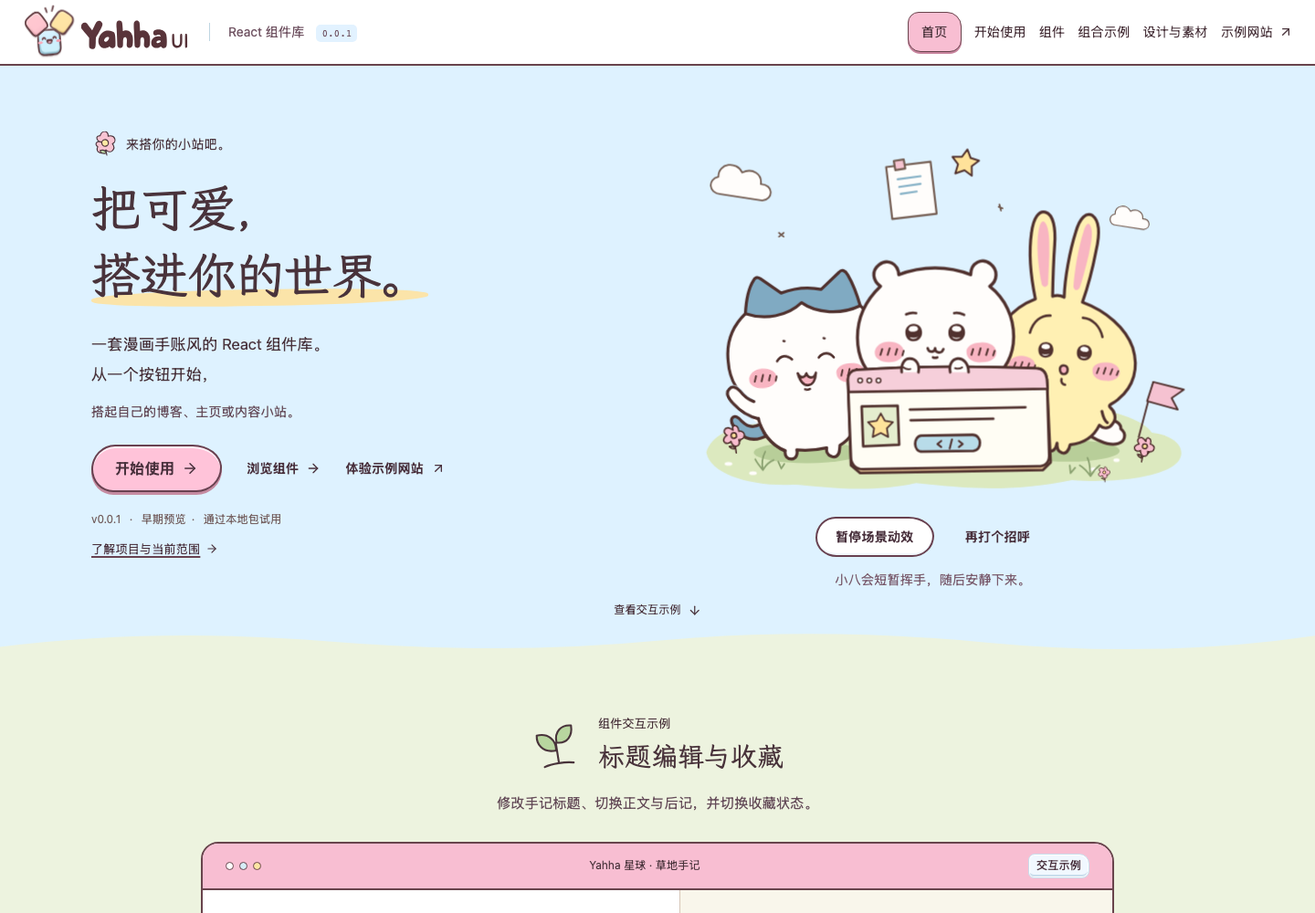
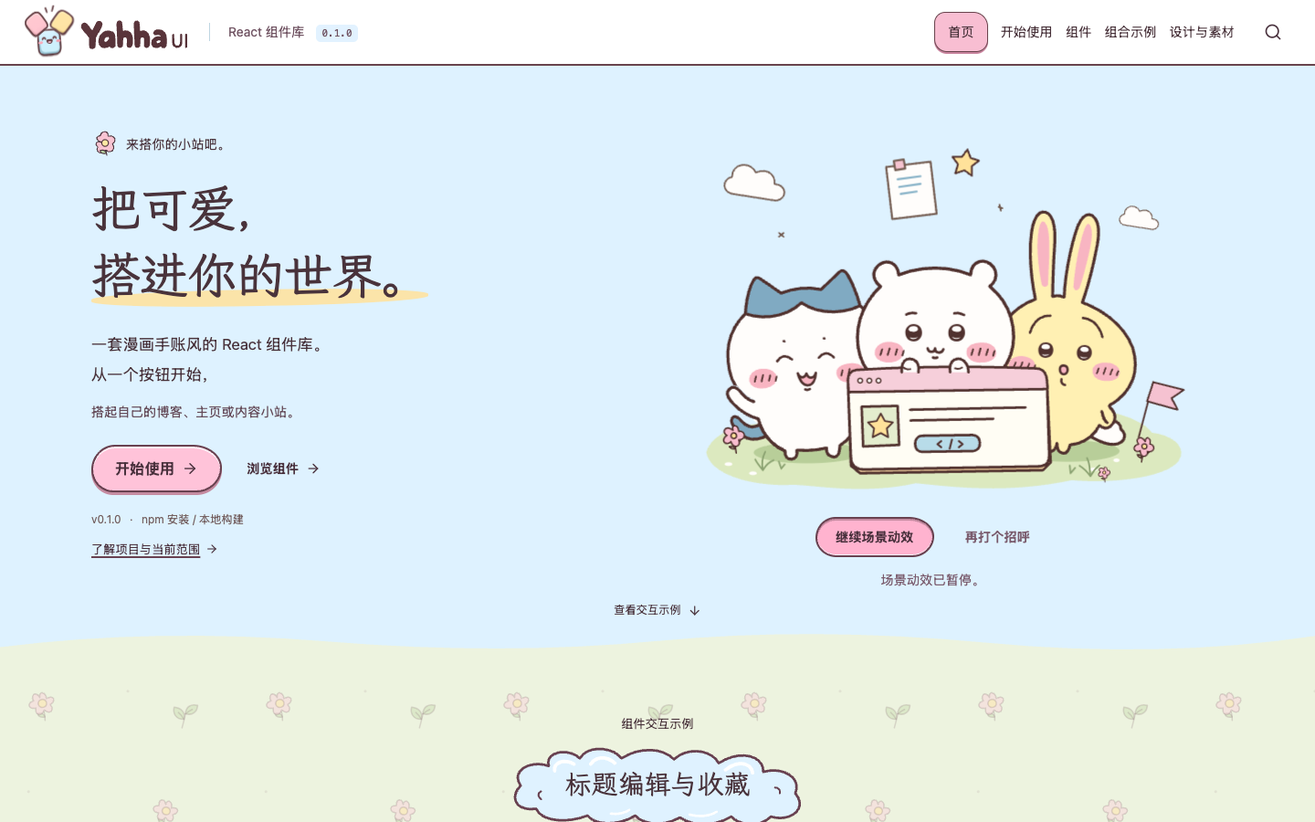
docs(project): 更新接入说明与站点预览资源

diff --git a/README.md b/README.md
@@ -1,54 +1,56 @@
-# Yahha UI
+<a id="yahha-ui"></a>
 
-**把可爱，搭进你的世界。**
+<p align="center">
+  <a href="https://yahhaui.com/">
+    <picture>
+      <source media="(prefers-color-scheme: dark)" srcset="https://raw.githubusercontent.com/didilili/yahha-ui/main/playground/src/assets/brand/yahha-ui-logo-on-dark.svg">
+      <img src="https://raw.githubusercontent.com/didilili/yahha-ui/main/playground/src/assets/brand/yahha-ui-logo.svg" alt="Yahha UI" width="320">
+    </picture>
+  </a>
+</p>
 
-Yahha UI 是一套漫画手账风 React 组件库，面向博客、个人主页与内容网站。
+<h1 align="center">Yahha UI</h1>
 
-提供可交互的组件示例、API 参考与完整页面组合，支持复制示例接入 React 项目。
+<p align="center"><strong>把可爱，搭进你的世界。</strong></p>
 
-[访问官网](https://yahhaui.com/) · [开始使用](#安装与接入) · [组件文档](https://yahhaui.com/#/components) · [设计语言](https://github.com/didilili/yahha-ui/blob/main/docs/design-language.md) · [问题反馈](https://github.com/didilili/yahha-ui/issues) · [变更记录](https://github.com/didilili/yahha-ui/blob/main/CHANGELOG.md)
+<p align="center">一套漫画手账风 React 组件库，面向博客、个人主页与内容网站。</p>
 
-React / React DOM `^19.3.1` · 31 个 UI 组件与 ThemeProvider · [npm 安装](https://www.npmjs.com/package/yahha-ui) / 本地构建
+<p align="center">
+  <a href="https://www.npmjs.com/package/yahha-ui"><img src="https://badgen.net/npm/v/yahha-ui" alt="npm 最新版本"></a>
+  <a href="https://github.com/didilili/yahha-ui/actions/workflows/ci.yml"><img src="https://github.com/didilili/yahha-ui/actions/workflows/ci.yml/badge.svg" alt="CI 状态"></a>
+  <a href="https://github.com/didilili/yahha-ui/blob/main/LICENSE"><img src="https://badgen.net/github/license/didilili/yahha-ui" alt="自有内容许可：MIT"></a>
+</p>
 
-## 把可爱，搭进你的世界
+<p align="center">
+  <a href="https://yahhaui.com/">访问官网</a> ·
+  <a href="#安装与接入">开始使用</a> ·
+  <a href="https://yahhaui.com/#/components">浏览组件</a> ·
+  <a href="https://github.com/didilili/yahha-ui/blob/main/CHANGELOG.md">变更记录</a>
+</p>
 
-我们想一起做，全宇宙最可爱的 UI 组件库。**Yahha 星球**是首页与示例故事的舞台，基础组件也可以独立使用，不依赖角色图案。
+[![Yahha UI 布局与表单组件的实际预览](https://raw.githubusercontent.com/didilili/yahha-ui/main/docs/images/yahha-components.png)](https://yahhaui.com/#/components)
 
-- **为内容网站准备**：阅读、分类、搜索、收藏与轻量表单可以组合成完整小站。文档提供阅读、归档与文章编辑等可复制的组合示例。
-- **每次操作，都好好回应**：组件继承使用方字体，提供清晰的焦点、选中与加载状态；键盘、表单和减少动效的用法见各组件文档。
-- **按需加入小场景**：静态 SVG、状态动效和可暂停的欢迎场景独立提供。基础组件不依赖角色图片，组件安装包不包含网站、字体或场景素材。
+<a id="把可爱搭进你的世界"></a>
+
+## 从一个按钮开始
+
+- **漫画手账风**：暖墨轮廓、柔和配色与纸感细节，提供 32 个 UI 组件与 ThemeProvider。
+- **三套主题配色**：粉色、浅蓝与浅黄预设，支持通过公开属性和语义颜色定制；组件继承你的项目字体。
+- **可复制的内容页面**：阅读与收藏、归档与搜索、文章编辑等组合，提供交互预览、源码与 API。示例使用演示数据，实际数据与保存逻辑由你的项目接入。
+
+**Yahha 星球**是首页与示例故事的舞台，基础组件可以独立使用。组件包不包含文档站的角色图片、字体或场景素材。[看看首页场景](docs/images/yahha-home.png) · [了解设计语言](docs/design-language.md)
 
 <a id="构建与本地安装"></a>
 
 ## 安装与接入
 
-已有 React 项目时，安装组件包，再导入样式和主题。没有项目可直接[导出最小项目](#导出最小项目)。
-
-当前要求 React / React DOM `^19.3.1`、Node.js ≥22.22.3，以及支持 CSS 导入的 React 构建工具。
-
-**1. 安装组件包。** 在自己的 React 项目中安装最新已发布版本：
+在已有 React 项目中安装：
 
 ```sh
 npm install yahha-ui
 ```
 
-文档随仓库源码更新，使用前请确认安装版本支持所需 API。如需使用尚未发布的改动，可获取源码并生成本地安装包：
-
-```sh
-git clone https://github.com/didilili/yahha-ui.git
-cd yahha-ui
-npm ci
-npm run build:lib
-npm pack
-```
-
-使用本地安装包时，切换到自己的 React 项目，将下方路径替换为 `npm pack` 输出的实际文件路径：
-
-```sh
-npm install /absolute/path/to/yahha-ui.tgz
-```
-
-**2. 在自己的项目中保存 `App.tsx`**，由现有应用入口渲染：
+在 `App.tsx` 中导入样式并设置主题，由现有应用入口渲染：
 
 ```tsx
 import { useState } from 'react';
@@ -68,89 +70,71 @@ export default function App() {
 }
 ```
 
-启动应用后，点击或按 Space 即可切换按钮的收藏状态。
+启动应用后，点击或按 Space 即可切换收藏状态。样式在应用入口导入一次；`ThemeProvider` 的 `theme` 必填，可选 `pink`、`blue`、`yellow`。[完整入门指南](https://yahhaui.com/#/guides/getting-started) · [主题配置](docs/components/theme.md)
 
-样式在应用入口导入一次；`ThemeProvider` 的 `theme` 必填，可选 `pink`、`blue`、`yellow`。更多用法见[组件文档](docs/README.md)与[主题配置](docs/components/theme.md)。
+<a id="当前能力与边界"></a>
 
-## 导出最小项目
+### 环境与版本
 
-没有现成项目时，在已获取源码并安装依赖的组件库目录中运行：
+- React / React DOM `^19.3.1`、Node.js ≥22.22.3，以及支持 CSS 导入的 React 构建工具。
+- 组件以 ESM、类型声明和独立 CSS 入口分发，React / React DOM 由使用方提供。
+- 当前验证范围为 React 19 浏览器应用；React 18、SSR 和其他构建工具兼容性尚未验证。含素材示例在 Vite 8 / TypeScript 7 下验证。
+- 文档随仓库源码更新，使用前请核对安装版本与[变更记录](CHANGELOG.md)。如需尚未发布的改动，可[从源码构建与安装](CONTRIBUTING.md#从源码构建与安装)。
+
+<a id="浏览组件"></a>
+
+## 浏览组件与示例
+
+从 [Button](docs/components/button.md)、[Input](docs/components/input.md)、[Surface](docs/components/surface.md) 开始，或打开[组件总览](https://yahhaui.com/#/components)，按通用、排版、布局、表单、内容展示、导航、浮层和反馈查找组件。
+
+- [组件文档](docs/README.md)：用途、可运行示例、API、键盘操作与支持范围。
+- [Form 表单](docs/components/form.md)：集中管理字段值、校验、错误、提交和重置。
+- [原生表单接入](docs/guides/forms.md)：原生取值、校验与焦点、重置及七类控件的接入差异。
+- [主题与定制](https://yahhaui.com/#/guides/styling)：配色、布局、插槽与公开样式入口。
+- [组合示例](https://yahhaui.com/#/guides/recipes)：阅读、归档、编辑与状态反馈。展开示例的“完整接入”可复制代码；含素材时按清单保留相对路径。
+
+### 导出最小项目
+
+没有现成 React 项目时，先[获取源码并安装依赖](CONTRIBUTING.md#从源码构建与安装)，再在组件库目录中运行：
 
 ```sh
 npm run create:starter
 ```
 
-项目生成在组件库旁的 `yahha-ui-starter/`。进入终端输出的项目目录，安装依赖并启动：
+默认在组件库旁生成 `yahha-ui-starter/`，内含本地组件包。进入终端输出的目录后运行 `npm install`、`npm run dev`。离线文档、ZIP 与指定输出位置等选项见[导出说明](CONTRIBUTING.md#导出最小接入项目)。
 
-```sh
-npm install
-npm run dev
-```
-
-默认只生成包含本地组件包的项目目录。离线文档、ZIP 和指定输出位置等选项见[导出说明](CONTRIBUTING.md#导出最小接入项目)。生成项目的 README 提供后续运行与部署方法。
-
-## 浏览组件
-
-组件总览按通用、排版、布局、表单、内容展示、导航、浮层和反馈分类；主题配置单列。进入组件文档后，可操作示例、复制代码并查阅 API。
-
-[在线体验组件与 API](https://yahhaui.com/#/components) · [查阅仓库文档](docs/README.md) · [查看设计规则和尺寸规范](docs/design-language.md)
-
-## 让 AI 使用 Yahha UI
+### 让 AI 使用 Yahha UI
 
 可以把下面的说明连同页面需求发送给 AI 编程工具：
 
 ```text
 请用 Yahha UI 为我的 React 项目实现【页面需求】。
-先阅读 https://github.com/didilili/yahha-ui/blob/main/README.md，按当前安装方式接入组件包。
-组件 API 与示例从 https://github.com/didilili/yahha-ui/blob/main/docs/README.md 查阅。
+先确认项目安装的 yahha-ui 版本，再核对该版本支持的 API。
+安装与接入：https://github.com/didilili/yahha-ui/blob/main/README.md
+组件 API 与示例：https://github.com/didilili/yahha-ui/blob/main/docs/README.md
+main 分支文档可能包含尚未发布的改动，不要直接用于旧版本。
 在应用入口导入 yahha-ui/style.css，并使用 ThemeProvider theme="pink" 包裹组件区域。
 使用库已有组件和公开 API 实现页面，布局、内容和业务状态放在我的项目中。
 ```
 
-## 问题反馈
+<a id="问题反馈"></a>
+<a id="参与开发"></a>
+<a id="本地开发"></a>
+<a id="构建与静态部署"></a>
+<a id="仓库目录"></a>
 
-遇到安装、样式或交互问题，可[提交 GitHub Issue](https://github.com/didilili/yahha-ui/issues/new?template=bug_report.yml)，附上组件版本、React 与构建工具、重现步骤及预期和实际结果。
+## 反馈与贡献
 
-## 本地开发
+遇到安装、样式或交互问题，可[提交 GitHub Issue](https://github.com/didilili/yahha-ui/issues/new?template=bug_report.yml)，附上组件版本、React 与构建工具、重现步骤及预期和实际结果。也欢迎通过 Issue 提出组件需求或文档建议。
 
-在本仓库完成 `npm ci` 后，运行文档站：
+我们想一起做，全宇宙最可爱的 UI 组件库。参与开发请阅读[协作说明](CONTRIBUTING.md)，其中包含源码安装、运行文档站、目录结构与验证方式。
 
-```sh
-npm run dev
-```
+[本地开发](CONTRIBUTING.md#本地开发) · [构建与部署文档站](CONTRIBUTING.md#文档站构建与部署) · [版本与发布](docs/releasing.md)
 
-打开终端输出的文档站地址，可浏览组件、入门指南和组合示例。
+<a id="素材与范围"></a>
 
-## 构建与静态部署
+## 许可证与素材
 
-```sh
-npm run build:demo
-```
+项目自有内容采用 [MIT 许可证](LICENSE)。部分展示素材为 Chiikawa 非官方同人创作，MIT 不包含第三方角色形象、名称或商标的权利，详见[第三方说明](THIRD_PARTY_NOTICES.md)。
 
-文档站输出至 `demo-dist/`。构建、本地预览与 GitHub Pages 配置见[部署说明](docs/deployment.md)。
-
-## 当前能力与边界
-
-- 组件以 ESM、类型声明和独立 CSS 入口分发，React / React DOM 由使用方提供。组件安装包不含网站、字体或独立场景素材。
-- 当前验证范围是 React 19 浏览器应用。React 18、SSR 和其他构建工具兼容性尚未验证。
-- 具体组件能力、状态管理与键盘操作以[组件文档](docs/README.md)为准。含素材示例在 Vite 8 / TypeScript 7 下验证，复制方式见文档站“完整接入”。
-
-## 素材与范围
-
-项目自有内容采用 [MIT 许可证](LICENSE)，第三方内容见[第三方说明](THIRD_PARTY_NOTICES.md)。
-
-[素材与分发范围](docs/assets-and-distribution.md)汇总实际目录、原始记录、派生关系与分发位置。[图标与插画](playground/src/examples/scenes/artwork/little-days/README.md)说明静态、动效及欢迎控制器的使用区别。
-
-## 仓库目录
-
-```text
-src/             组件、公开类型与主题
-playground/      文档站、交互示例及展示素材
-docs/            使用与维护说明、生成的组件 Markdown
-scripts/         构建、资源同步、验收与项目导出
-tests/           工程脚本、浏览器和真实安装包验收
-```
-
-## 参与开发
-
-源码目录、文档维护、测试和 Git hooks 见[协作说明](CONTRIBUTING.md)、[版本与发布](docs/releasing.md)；[AGENTS.md](AGENTS.md)记录仓库协作约定。
+[素材与分发范围](docs/assets-and-distribution.md)记录组件、字体与展示素材的来源和分发位置；[图标与插画](playground/src/examples/scenes/artwork/little-days/README.md)说明独立场景素材的使用方式。

diff --git a/CONTRIBUTING.md b/CONTRIBUTING.md
@@ -1,19 +1,61 @@
 # 协作说明
 
-开始修改前阅读 [AGENTS.md](AGENTS.md)。不要自动暂存、提交、推送或发布；已有暂存内容和其他工作区改动需要原样保留。小改动采用针对性验证，流程与影响范围匹配。
+欢迎一起改进 Yahha UI 的组件、文档与示例。发现问题或有建议，可以先[提交 Issue](https://github.com/didilili/yahha-ui/issues)；准备修改代码，可从下面的[本地开发](#本地开发)开始。组件使用方法见[组件文档](docs/README.md)。
+
+## 协作约定
+
+开始修改前阅读 [AGENTS.md](AGENTS.md)，了解目录、API、验证与 Git 约定。保留已有暂存内容和无关改动；使用自动化工具协作时，只有获得明确授权后才能暂存、提交、推送或发布。小改动采用针对性验证，流程与影响范围匹配。
+
+## 从源码构建与安装
+
+需要使用尚未发布的改动或验证本地安装包时，先获取源码。使用 Node.js 22.22.3、npm 10.9.8 与仓库的 `package-lock.json`：
+
+```sh
+git clone https://github.com/didilili/yahha-ui.git
+cd yahha-ui
+npm ci
+```
+
+在组件库仓库根目录生成本地安装包：
+
+```sh
+npm pack
+```
+
+`npm pack` 会通过 `prepack` 自动执行 `npm run build:lib`，构建组件代码、类型声明与样式，再生成 `yahha-ui-<version>.tgz`；实际文件名以终端输出为准。只需构建库产物时，可单独运行 `npm run build:lib`。
+
+切换到自己的 React 项目，将下面的路径替换为刚生成的安装包绝对路径：
+
+```sh
+npm install /absolute/path/to/yahha-ui.tgz
+```
+
+安装后按 README 的[安装与接入](README.md#安装与接入)导入组件、样式与主题。
 
 ## 本地开发
 
-使用 Node.js 22.22.3、npm 10.9.8 与仓库的 `package-lock.json`：
+按上文获取源码并完成 `npm ci` 后，在组件库仓库根目录启动文档站：
 
 ```sh
-npm ci
 npm run dev
 ```
 
-组件文档见 [docs/README.md](docs/README.md)。仓库保持 npm 单包，React 与 React DOM 由使用方提供，当前 peer 范围均为 `^19.3.1`。展示与交互示例放在 `playground/`，不新增 Storybook 依赖。
+打开终端输出的文档站地址，可浏览组件、使用指南与交互示例。仓库保持 npm 单包，React 与 React DOM 由使用方提供，当前 peer 范围均为 `^19.3.1`。文档站与示例放在 `playground/`，不新增 Storybook 依赖。
 
 macOS 可在安装依赖后双击根目录 `启动组件小屋.command`，它会复用已启动的本地文档站或执行 `npm run dev`；这是可选开发入口，其他平台直接使用 npm 命令。
+
+## 文档站构建与部署
+
+在组件库仓库根目录构建并预览文档站：
+
+```sh
+npm run build:demo
+npm run preview
+```
+
+文档站输出至 `demo-dist/`，包含首页、指南、组件示例与 API。将该目录的内容用于静态托管；GitHub Pages、子目录部署及字体声明的保留方式见[部署说明](docs/deployment.md)。
+
+组件库仓库的 `dist/` 用于组件安装包。通过 `create:starter` 导出的使用方项目，按项目自带的 README 构建和部署自己的 `dist/`。
 
 ## 目录与边界
 
@@ -36,23 +78,11 @@ macOS 可在安装依赖后双击根目录 `启动组件小屋.command`，它会
 - `docs/images/`：从实际页面截取的仓库展示图，拍摄路由和视口见目录内 README，不进入安装包。
 - `scripts/`：打包与验收脚本；`starter-template/` 为最小接入项目模板，不是 workspace，生成后的项目独立安装本地 `.tgz`。
 
-Button、IconButton、TextField、Select、Textarea、Checkbox、RadioGroup、Switch 和 SegmentedControl 可单独运行三引擎验收：首次执行 `npx playwright install chromium firefox webkit`，然后执行 `npm run build:demo && npm run test:controls`。它复用构建后的官网，在 Chromium、Firefox 与 WebKit 检查桌面和 320px 下的原生表单、错误恢复、加载几何、图标、键盘选择及多行编辑。Textarea 覆盖换行、长文本、200 字原生输入上限、错误关联与恢复、只读、父 fieldset 禁用、FormData 和重置。WebKit 引擎结果不等同于所有 Safari／iOS 真机环境均已验证。浏览器下载在本机 Playwright 缓存中，不增加组件运行时依赖。
+Button、IconButton、Input、Select、Textarea、Checkbox、RadioGroup、Switch 和 SegmentedControl 可单独运行三引擎验收：首次执行 `npx playwright install chromium firefox webkit`，然后执行 `npm run build:demo && npm run test:controls`。它复用构建后的官网，在 Chromium、Firefox 与 WebKit 检查桌面和 320px 下的原生表单、错误恢复、加载几何、图标、键盘选择及多行编辑。Textarea 覆盖换行、长文本、200 字原生输入上限、错误关联与恢复、只读、父 fieldset 禁用、FormData 和重置。WebKit 引擎结果不等同于所有 Safari／iOS 真机环境均已验证。浏览器下载在本机 Playwright 缓存中，不增加组件运行时依赖。
 
-库内相对模块路径使用 `.js` 扩展名，使构建后的多文件声明可被 Bundler 与 NodeNext 解析。公开 Props 与实际默认值是 API 契约依据；站内说明、API 与示例组织在 `playground/src/docs/components/` 维护，组件 Markdown 由 `npm run sync:docs` 生成。公共接口变更需核对属性名、类型、必填项、默认值、原生属性及 ref 的作用目标，并检查源码导出和使用方示例。站内预览与展示源码使用同一个 TSX，Markdown 的原始示例也由同一页面生成，两者均由真实安装包验收编译。页面元信息变更时同步 component-catalog。
+库内相对模块路径使用 `.js` 扩展名，使构建后的多文件声明可被 Bundler 与 NodeNext 解析。公开 Props、默认值、原生属性及 ref 的作用目标以实现和对应[组件文档](docs/README.md)为准。
 
-组件目录与总览按通用、排版、布局、表单、内容展示、导航、浮层、反馈八组组织，ThemeProvider 单列为主题配置；组件清单与元信息以 `component-catalog.ts` 为准，文档按组件独立加载。TextField、SegmentedControl、ThemeProvider 的中文名称分别统一为“单行输入”“分段选择”“主题配置”；Popover 使用“弹出面板”，Alert 使用“提示条”，旧称保留为搜索别名。英文导出名和路由保持稳定。
-
-组件使用文档描述当前用途、示例、API 和交互约定，不混入“本轮复核”“保留既有”“不计新增”等开发过程表述。设计原则和视觉规则集中在设计语言文档；文档不承诺尚未实现或验证的能力。
-
-组件目录、同源 TSX 示例与组件 Markdown 以当前页面模型和生成的文档索引为准。[设计语言](docs/design-language.md) 单独说明视觉和使用规则；默认设计规范位于 `#/guides/design-baseline`，示例不得覆盖控件外观与尺寸；共享 token 集中在 `src/theme/theme.module.css`，改设计必须通过 `npm run check:design` 与安装包实际尺寸验证；加载、空态与 404 场景位于 `#/guides/states`，以现有组件组合，不增加公共组件。增加或删除公开组件与示例时，同时更新 README 和文档索引。
-
-组件边界也应随实现核对：Select 当前为单值选择，不包含搜索或多选；Pagination 默认使用按钮，可通过 `getPageHref` 提供原生链接，URL 与列表更新由使用方处理；Tooltip 沿用 Base UI 1.9 的视觉补充约定，触发器必须具备自身可访问名称，重要说明使用可见文字或 Popover。
-
-文档站本身也是组件的使用方，统一采用天空蓝、白色内容面、暖墨与轻粉的漫画手账语言。按钮、白底字段、纸签、栏目和浮层保持各自结构，不能只用同一套圆角包住所有内容。强调色预设在 ThemeProvider 文档中展示。搜索、清空、菜单、代码操作和重试等公共交互优先从 `yahha-ui` 公开入口复用已有组件。组件接入处的站点 CSS 只负责布局、排版和公开 `className` / `classNames` 定制，不依赖内部 DOM 覆盖基础交互，也不为适配顶栏而缩小点击区域。导航链接、表格、pre / code 等保留合适的原生语义，页面导航不改成 Tabs。
-
-新增组件时，除了同步示例和 API，还需复核官网中适合复用的位置。验收覆盖官网实际的键盘操作、焦点恢复、主题及 Portal 更新、窄屏布局；增加组件数量本身不代表这些使用场景已通过验证。
-
-设计验收同时查看无插画状态及文章阅读组合：控件、内容和浮层应有各自的层次，表单不抢正文注意力，每个聚焦目标只有一套清楚的键盘提示。使用 `ReadingExample.tsx` 等真实组合检查标题、正文、分类、收藏与辅助操作；加载场景检查文字与图标保留、尺寸稳定、真实请求结束后的恢复，以及 SVG 在减少动效时保留静帧。区块可配场景素材，但可见状态说明和真实恢复入口由 HTML 承担。
+分类命名、示例组织与同源生成遵循[文档规范](docs/documentation.md)。默认外观、token 与设计验收遵循[设计语言](docs/design-language.md)。目录、依赖、官网复用与变更约定见 [AGENTS.md](AGENTS.md)。
 
 ## 导出最小接入项目
 
@@ -74,7 +104,7 @@ npm test -- src/components/text-field/TextField.test.tsx
 npm run typecheck
 ```
 
-组件说明遵循 [文档规范](docs/documentation.md)。编辑组件页后执行 `npm run sync:docs`，提交前以 `npm run check:docs` 核对生成结果；不要直接编辑生成的组件 Markdown。章节搜索从这些 Markdown 生成轻量索引，因此开发时修改正文或 API 后也需要同步；`build:demo` 会先检查同步状态。搜索索引在首次输入查询时加载，不会预先加载所有组件示例。
+组件说明遵循 [文档规范](docs/documentation.md)。编辑组件页后执行 `npm run sync:docs`，提交前以 `npm run check:docs` 核对生成结果；不要直接编辑生成的组件 Markdown。章节搜索从这些 Markdown 生成轻量索引，因此开发时修改正文或 API 后也需要同步；`build:demo` 会先检查同步状态。搜索索引在首次打开搜索弹窗时加载，不会预先加载所有组件示例。
 
 纯文档改动可检查涉及文件的格式：
 

diff --git a/docs/images/README.md b/docs/images/README.md
@@ -2,12 +2,12 @@
 
 本目录用于 GitHub README 展示，截图来自当前实际运行的 Yahha UI 文档站，没有从参考网站截取或拼接角色素材。
 
-本目录保存文档首页与组件总览的实际页面截图。各图的拍摄路由与视口如下；更新页面后按同样条件重新截取。
+本目录保存文档首页与组件总览的实际页面截图。2026-11-08 从当前本地源码运行的文档站重新拍摄，页面版本为 0.1.0，组件总览显示 31 个 UI 组件，另有 ThemeProvider。各图的拍摄条件如下；更新页面后按同样条件重新截取。
 
-- [文档首页](yahha-home.png)：文档站 `#/`，1440 × 900。
-- [组件视觉总览](yahha-components.png)：文档站 `#/components`，1440 × 1000。
+- [组件预览](yahha-components.png)：文档站 `#/components`，1440 × 960，设备像素比 1，保持“全部”分类与空搜索词，页面纵向滚动到 `scrollY = 1440`。完整展示布局组的 Surface、Divider，以及表单组首行的 TextField、Textarea、Select；保留站点导航，不把首屏介绍区作为组件预览。
+- [文档首页](yahha-home.png)：文档站 `#/`，1440 × 900，设备像素比 1，页面顶部，默认粉色主题。
 
-拍摄时在首页使用页面本身的暂停按钮停止环境动效，以获得清楚的单帧；没有改写组件样式、尺寸或人物比例。
+拍摄工具为 agent-browser / Chromium，地址为 `http://127.0.0.1:4175/`。等待 WenKai 字体及可见图片加载完成，再在首页使用页面本身的“暂停场景动效”按钮获得清楚的单帧；没有用 CSS 冻结页面，没有改写组件样式、内部 DOM、尺寸或人物比例，也没有缩放、裁剪或拼接截图。
 
 页面、主题或素材变化后，按相同路由与视口重新截取实际界面，并核对字体、可见图片、运行错误与展示源码。截图中角色、图案与字体的来源见[素材与分发范围](../assets-and-distribution.md)。
 

diff --git a/playground/src/assets/recipes/README.md b/playground/src/assets/recipes/README.md
@@ -1,17 +1,20 @@
 # 场景预览截图
 
-这些 PNG 来自当前文档站的真实 `.example-preview`，不是独立插画或可运行示例。
-以 Chromium、1440 × 2400 视口、浅色和减少动态效果设置截图；预览本身宽约 910 像素。场景变更时重新截取，不改截图内的组件布局。
+这些 PNG 来自当前文档站的真实 `.example-preview`，不是独立插画或可运行示例。场景变更后，在开发服务器运行期间执行：
 
-2026-11-02 随状态说明修订刷新 `loading.png`（默认加载成功）与 `not-found.png`，取自相同视口下的实际示例，组件布局与角色素材未改。
+```sh
+node scripts/capture-recipe-previews.mjs
+```
 
-2026-11-04 随四张场景插画正式采用刷新 `empty.png`。沿用上述截图设置，截取默认“首次没有内容”的真实区域，保留示例布局与原生 PNG 编码。
+也可传入文档站地址作为第一个参数。脚本使用独立 Chromium、浅色、减少动效和 1494 × 1600 视口，输出统一的 960 × 600 PNG。仅为截图设置画布和取景，不修改示例源码、组件样式、文字或数据，也不截取文档顶栏与代码操作区。
+
+阅读场景通过公开开关隐藏可选配图，从文章正文起取景；加载场景通过实际操作切换到失败状态，展示恢复入口。短场景在画布中居中，长归档场景展示搜索、分类和文章列表开头。
 
 | 文件 | 文档路由 |
 | --- | --- |
 | reading.png | `#/guides/reading?section=reading-example` |
 | archive.png | `#/guides/states?section=scene-blog-archive` |
 | editing.png | `#/guides/states?section=scene-article-actions` |
-| loading.png | `#/guides/states?section=scene-loading`（默认加载成功） |
+| loading.png | `#/guides/states?section=scene-loading`（加载失败与重试） |
 | empty.png | `#/guides/states?section=scene-empty`（默认首次没有内容） |
 | not-found.png | `#/guides/states?section=scene-not-found` |

diff --git a/docs/assets-and-distribution.md b/docs/assets-and-distribution.md
@@ -7,7 +7,7 @@
 - 源码位于 `src/`，公共入口为 `src/index.ts`。构建生成 `dist/index.js`、类型声明与 `dist/style.css`；加载图形及代码内基础图形随组件实现构建。
 - `Icon` 与十六个命名功能图标属于公开组件能力，随安装包提供，可从 `yahha-ui` 按需导入；不依赖图标字体、远端资源或文档站素材。分类、章节图案和角色场景继续留在站点层。
 - Button / IconButton 的可选软团外观由组件 CSS 绘制轮廓、短高光与按压底边，功能图标通过现有图标属性或子元素传入；小花饼加载图形维护在 `src/internal/BiscuitLoadingGlyph.tsx`，随组件代码进入安装包。角色 SVG 继续作为下文的独立场景素材维护。
-- [package.json](../package.json) 的分发白名单为 `dist/`。本地 `.tgz` 另附包元信息、根 README、`LICENSE` 与 `THIRD_PARTY_NOTICES.md`，不包含文档站、独立角色 SVG、PNG、字体或截图目录。
+- [package.json](../package.json) 的 `files` 分发白名单为 `dist/` 与 `THIRD_PARTY_NOTICES.md`。npm 还会自动包含包元信息、根 README 与 `LICENSE`；发布包和本地 `.tgz` 均不包含文档站、独立角色 SVG、PNG、字体或截图目录。
 - React / React DOM 由使用方提供，`@base-ui/react` 是运行时依赖。
 
 源码仓库 README 中的相对图片和文档链接供仓库阅读，不表示这些文件进入安装包。代码接入见[安装与接入](../README.md#安装与接入)。

diff --git a/playground/src/assets/brand/README.md b/playground/src/assets/brand/README.md
@@ -36,4 +36,4 @@ node scripts/export-brand-assets.mjs
 
 修改后核对透明比例与四角 alpha、白底/彩底/深底及强制颜色下的字标可见性，并在真实标签页检查 favicon。旧的候选图属于设计历史，当前母版以本目录的 SVG 为准。
 
-品牌图形采用项目 MIT 许可，仅用于文档站，不进入组件安装包。
+品牌图形采用项目 MIT 许可，供文档站与仓库介绍使用；原始图形文件不进入组件安装包。
